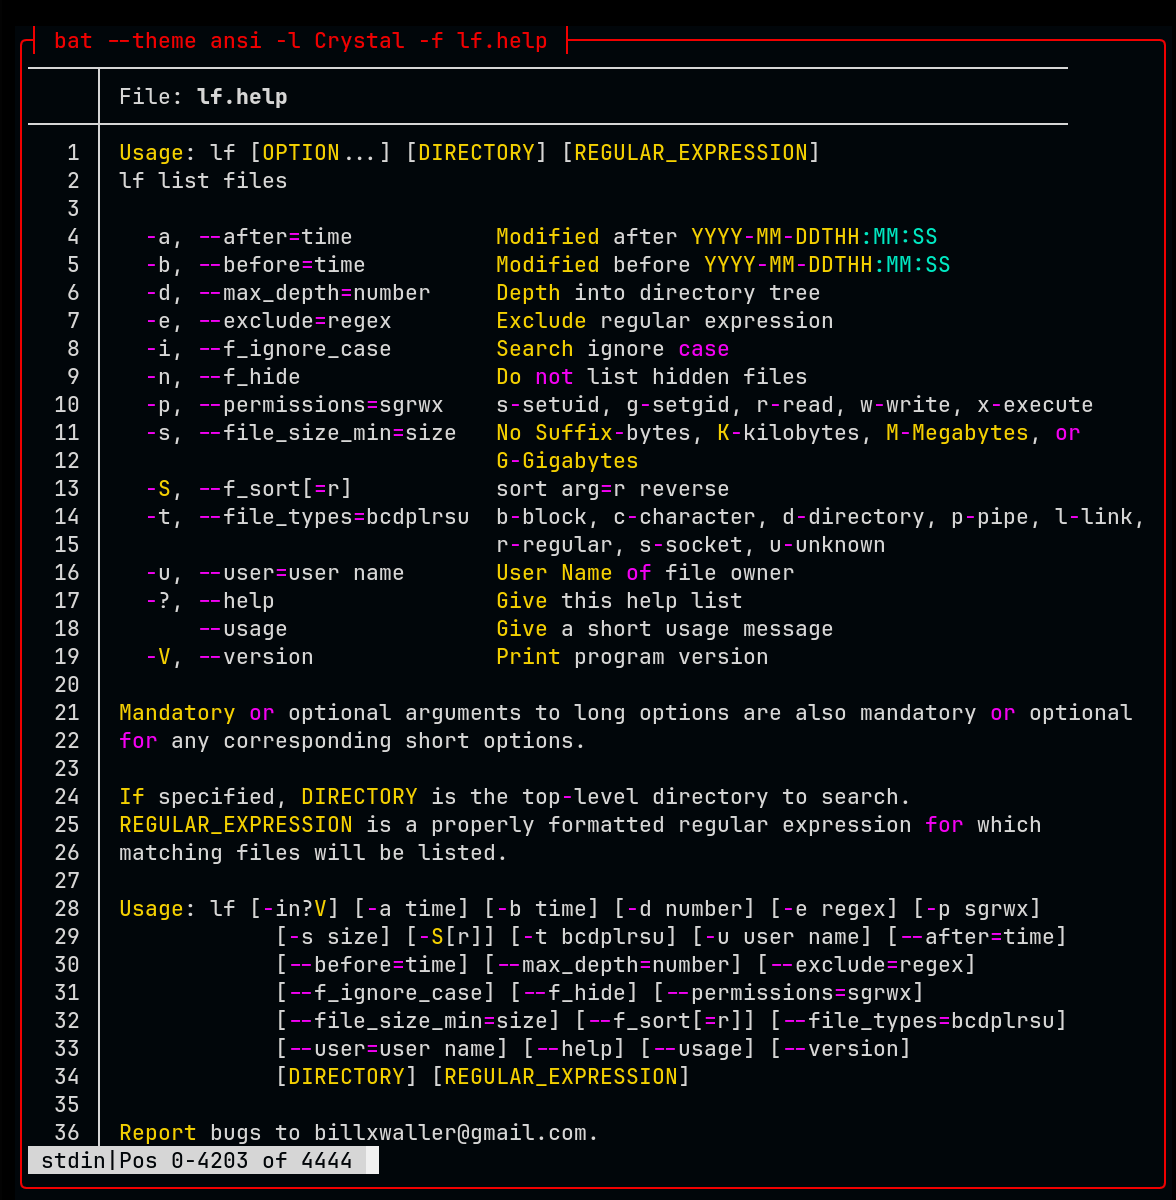
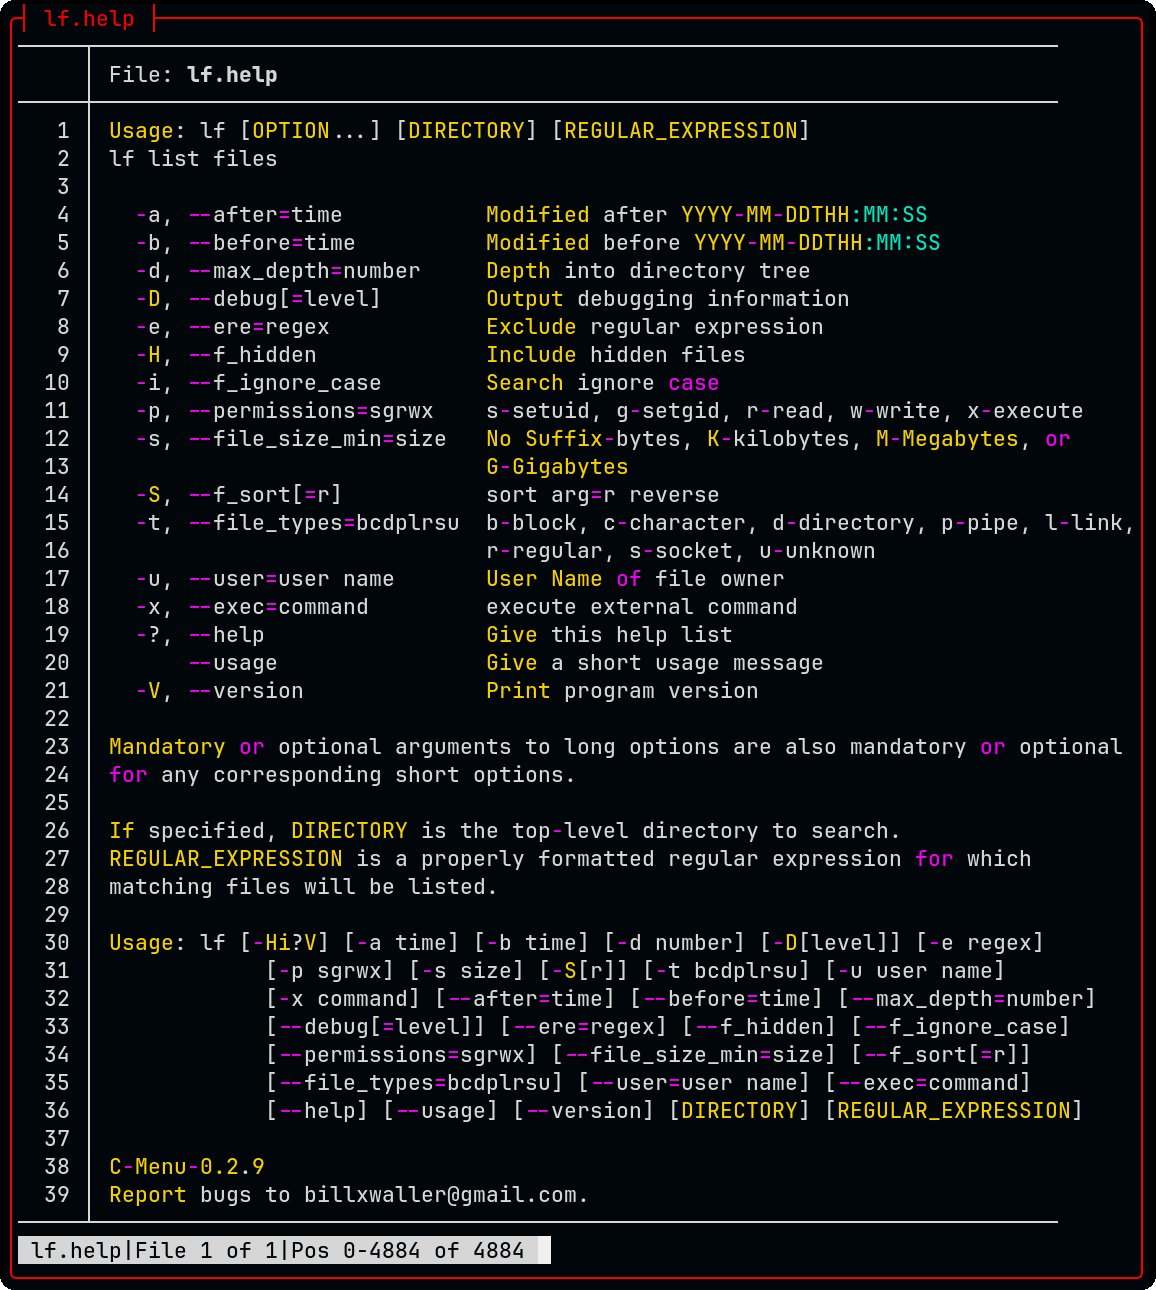
lf: Changed default to exclude hidden files, removed -n option to exclude hidden files, and added the -H option to include hidden files. Updated the help file and screenshot accordingly.

Changed region(s): [[0.0, 0.0, 1.0, 1.0], [0.9965, 0.0, 1.0, 0.0308]]

diff --git a/src/lf.c b/src/lf.c
@@ -46,7 +46,6 @@ static struct argp_option options[] = {
     {"max_depth", 'd', "number", 0, "Depth into directory tree", 0},
     {"ere", 'e', "regex", 0, "Exclude regular expression", 0},
     {"f_ignore_case", 'i', 0, 0, "Search ignore case", 0},
-    {"f_hide", 'n', 0, 0, "Do not list hidden files", 0},
     {"permissions", 'p', "sgrwx", 0,
      "s-setuid, g-setgid, r-read, w-write, x-execute", 0},
     {"file_size_min", 's', "size", 0,
@@ -59,6 +58,7 @@ static struct argp_option options[] = {
     {"exec", 'x', "command", 0, "execute external command", 0},
     {"debug", 'D', "level", OPTION_ARG_OPTIONAL, "Output debugging information",
      0},
+    {"f_hidden", 'H', 0, 0, "Include hidden files", 0},
     {"f_sort", 'S', "r", OPTION_ARG_OPTIONAL, "sort arg=r reverse", 0},
     {0}};
 
@@ -77,7 +77,7 @@ typedef struct {
     bool f_ignore_case;
     bool f_sort;
     bool f_reverse;
-    bool f_hide;
+    bool f_hidden;
     char *file_types_p;
     int reg_flags;
     char *args[2];
@@ -108,9 +108,9 @@ typedef struct Node {
 bool init_find(SearchFilters *);
 int scan_file(char *, SearchFilters *, struct dirent *);
 
-void enqueue(const char *, int);
-Node *dequeue();
-void *worker(void *);
+void enqueue_dir(const char *, int);
+Node *dequeue_dir();
+void *finder(void *);
 // void exec_external(SearchFilters *, char **);
 
 /** @brief Parse a single option.  */
@@ -158,12 +158,12 @@ static error_t parse_opt(int key, char *arg, struct argp_state *state) {
         strnz__cpy(f->ere, arg, MAXLEN - 1);
         f->flags |= LF_EXC_REGEX;
         break;
+    case 'H':
+        f->f_hidden = true;     // Include hidden files
+        f->flags &= ~(LF_HIDE); // Don't hide hidden files
+        break;
     case 'i':
         f->flags |= LF_ICASE;
-        break;
-    case 'n':
-        f->f_hide = true;
-        f->flags |= LF_HIDE;
         break;
     case 'p':
         for (i = 0; arg[i]; i++) {
@@ -280,20 +280,14 @@ int shutdown = 0;
 int main(int argc, char **argv) {
 
     SearchFilters *f = (SearchFilters *)calloc(1, sizeof(SearchFilters));
-    f->base_path[0] = '\0';
-    f->max_depth = 0;
-    f->re[0] = '\0';
-    f->ere[0] = '\0';
     f->f_ignore_case = false;
     f->f_sort = false;
     f->f_reverse = false;
-    f->file_types_p = 0;
+    f->f_hidden = false; // By default, hidden files are suppressed. Use -H to
+                         // include them.
+    f->flags |= LF_HIDE; // Hide hidden files
     f->args[0] = nullptr;
     f->args[1] = nullptr;
-    f->exec[0] = '\0';
-    f->after = 0;
-    f->before = 0;
-    f->file_size_min = 0;
     argp_parse(&argp, argc, argv, 0, 0, f);
     if (f->argc > 0) {
         if (is_directory(f->args[0]))
@@ -340,8 +334,8 @@ int main(int argc, char **argv) {
          * process will run the file finder and write its output to the pipe,
          * while the child process will read from the pipe and execute the sort
          * command. */
-        int eargc = 0;
         char *eargv[MAXARGS];
+        int eargc = 0;
         eargv[eargc++] = strdup("sort");
         if (f->f_reverse)
             eargv[eargc++] = strdup("-r");
@@ -351,12 +345,13 @@ int main(int argc, char **argv) {
         int fds[2];
         pipe(fds); // Create the pipes
         pid_t pid1 = fork();
-        if (pid1 == 0) {
+        if (pid1 == 0) {                // Child process
             close(fds[1]);              // Close child write pipe
             dup2(fds[0], STDIN_FILENO); // Clone child read pipe to STDIN_FILENO
             close(fds[0]);              // Close child read pipe after cloning
             execvp(eargv[0], eargv);    // Execute the external command
         }
+        // Parent process
         close(fds[0]);               // Close read end of pipe
         dup2(fds[1], STDOUT_FILENO); // Clone write pipe to STDOUT_FILENO
         close(fds[1]);               // Close duplicated write pipe
@@ -376,7 +371,7 @@ int main(int argc, char **argv) {
     exit(EXIT_SUCCESS);
 }
 /** @brief Initialize the file search based on the provided SearchFilters and
-   start worker threads.
+   start finder threads.
     @param f A pointer to a SearchFilters struct containing the options and
    flags for filtering.
     @return true if the search was initialized successfully, false if an error
@@ -384,15 +379,14 @@ int main(int argc, char **argv) {
     @details This function processes the flags and options specified in the
    SearchFilters struct to set up the search criteria. It compiles any regular
    expressions provided by the user and initializes the queue with the base
-   directory. It then creates a number of worker threads equal to the number of
+   directory. It then creates a number of finder threads equal to the number of
    CPU cores to perform the directory traversal and file scanning concurrently.
-   The function waits for all worker threads to complete before cleaning up
+   The function waits for all finder threads to complete before cleaning up
    resources and returning.
    */
 bool init_find(SearchFilters *f) {
     if (f->flags & LF_USER)
         f->user_id = f->flags >> 24 & 0xffff;
-    f->suppress_types = 0;
     f->include_types = f->flags >> 8 & 0xff;
     /** suppress file types that aren't included */
     if (f->include_types)
@@ -448,8 +442,8 @@ bool init_find(SearchFilters *f) {
                     (intmax_t)f->file_size_min);
         if (f->max_depth)
             fprintf(stderr, "Max depth: %d\n", f->max_depth);
-        if (f->f_hide)
-            fprintf(stderr, "Hidden files will be suppressed.\n");
+        if (f->f_hidden)
+            fprintf(stderr, "Include hidden files.\n");
         if (f->include_types) {
             fprintf(stderr, "Included file types:");
             if (f->include_types & FT_BLK)
@@ -473,11 +467,10 @@ bool init_find(SearchFilters *f) {
             fprintf(stderr, "\n");
         }
     }
-
-    enqueue(f->base_path, 0);
+    enqueue_dir(f->base_path, 0);
     pthread_t threads[thread_count];
     for (int i = 0; i < thread_count; i++)
-        pthread_create(&threads[i], NULL, worker, f);
+        pthread_create(&threads[i], NULL, finder, f);
     pthread_mutex_lock(&queue_mutex);
     while (!shutdown) {
         pthread_cond_wait(&cond_var, &queue_mutex);
@@ -485,6 +478,7 @@ bool init_find(SearchFilters *f) {
     pthread_mutex_unlock(&queue_mutex);
     for (int i = 0; i < thread_count; i++)
         pthread_join(threads[i], NULL);
+    // End Program
     if (f->flags & LF_REGEX)
         regfree(&f->compiled_re);
     if (f->flags & LF_EXC_REGEX)
@@ -494,16 +488,16 @@ bool init_find(SearchFilters *f) {
         return false;
     return true;
 }
-/** @brief Enqueue a directory path for processing by worker threads.
+/** @brief Enqueue a directory path for processing by finder threads.
     @param path The directory path to enqueue.
     @param depth The current depth in the directory tree for the given path.
     @details This function creates a new Node containing the specified directory
    path and depth, and adds it to the global queue. It uses a mutex to ensure
-   thread-safe access to the queue, and signals worker threads that new work is
+   thread-safe access to the queue, and signals finder threads that new work is
    available. The function also checks for shutdown conditions to prevent
    enqueuing new work when the program is exiting.
    */
-void enqueue(const char *path, int depth) {
+void enqueue_dir(const char *path, int depth) {
     Node *new_node = malloc(sizeof(Node));
     strnz__cpy(new_node->path, path, PATH_MAX - 1);
     new_node->depth = depth;
@@ -518,16 +512,16 @@ void enqueue(const char *path, int depth) {
     pthread_cond_signal(&cond_var);
     pthread_mutex_unlock(&queue_mutex);
 }
-/** @brief Dequeue a directory path for processing by worker threads.
+/** @brief Dequeue a directory path for processing by finder threads.
     @return A pointer to a Node containing the directory path and depth, or NULL
    if the queue is empty and shutdown has been initiated.
     @details This function removes and returns the next Node from the global
    queue. It uses a mutex to ensure thread-safe access to the queue, and waits
    on a condition variable if the queue is empty. The function also checks for
-   shutdown conditions to allow worker threads to exit gracefully when there is
+   shutdown conditions to allow finder threads to exit gracefully when there is
    no more work to process.
    */
-Node *dequeue() {
+Node *dequeue_dir() {
     pthread_mutex_lock(&queue_mutex);
     while (head == NULL && !shutdown) {
         // Exit condition: No work in queue AND no threads busy
@@ -561,12 +555,12 @@ Node *dequeue() {
    function uses atomic operations to track active tasks and condition variables
    to manage thread synchronization and shutdown when all work is complete.
    */
-void *worker(void *arg) {
+void *finder(void *arg) {
     SearchFilters *f = (SearchFilters *)arg;
     // regmatch_t pmatch;
 
     while (1) {
-        Node *current = dequeue();
+        Node *current = dequeue_dir();
         if (!current)
             break;
 
@@ -587,7 +581,7 @@ void *worker(void *arg) {
                     if (!((f->flags & LF_HIDE) && (entry->d_name[0] == '.'))) {
                         if (f->max_depth == 0 ||
                             current->depth + 1 < f->max_depth) {
-                            enqueue(full_path, current->depth + 1);
+                            enqueue_dir(full_path, current->depth + 1);
                         }
                     }
                 } else {
@@ -618,7 +612,7 @@ void *worker(void *arg) {
    criteria, its path is printed to standard output. If any errors occur during
    processing (e.g., regex compilation failure), an error message is printed to
    standard error and the function returns false.
-    @note This function is called by worker threads for each file encountered
+    @note This function is called by finder threads for each file encountered
    during the directory traversal. It is designed to be thread-safe and
    efficient, minimizing redundant system calls. For example, it only calls
    stat() when necessary for filters that require file metadata, and it caches

diff --git a/README.md b/README.md
@@ -161,11 +161,14 @@ The screenshot above is an example of how you might use the date-time options
 of lf to list files between two date-times (after and before) and the sample
 output. lf is definitely intuitive and very easy to use.
 
-With C-Menu, you can use lf, find, or fd depending on your specific needs and preferences. If you need a powerful and flexible file finder with a very light footprint, lf is a great choice. For a more traditional file finder with a wide range of options and compatibility with older systems, find may be a better choice for your target platform. If you want the fastest possible file finder and don't mind its relatively large footprint, fd is the way to go. fd is written in Rust, which is great for any number of reasons, but applications written in Rust require significantly more disk space than applications written in C. fd's executable alone is 3.8 Mb on my system, it has more than a few dependencies, and portability can be an issue. lf, on the other hand, is written in C, has a 20 Kb executable, and minimal dependencies.
+With C-Menu, you can use lf, find, or fd depending on your specific needs and preferences. If you need a powerful and flexible file finder with a very small footprint, lf is a great choice. For a more traditional file finder with a wider range of options and compatibility with older systems, find may be a better choice for your target platform. If you want the fastest possible file finder ~~and don't mind its relatively large footprint, fd~~ lf is the way to go.
 
-Currently, lf is faster than find, but not nearly as fast as fd. The planned multi-threading optimizations for lf will make it much faster, but even in its current state, lf is a great tool for finding files with regular expressions and date-time criteria. lf is designed to be simple and easy to use, with a focus on portability, performance, and usability.
+fd is written in Rust, which is great for any number of reasons, but applications written in Rust require significantly more disk space than applications written in C. fd's executable alone is 3.8 Mb on my system, it has more than a few dependencies, and portability can be an issue. Nevertheless, fd is a very fast file finder, and it has a lot of great features.
 
-**_NEW_** Erase the above two paragraphs. The latest updates have incorporated concurrent directory processing resulting in significant performance gains for lf. I have not had time to dig in and find out why fd only listed 291969 files, but it is likely that fd is not following symbolic links, which would account for the difference in file counts. The performance of fd is also significantly slower than lf, which is surprising given that fd is written in Rust and is generally considered to be a fast file searching tool. It is possible that fd's performance could be improved with some optimizations, but as it stands, lf appears to be the superior choice for file searching tasks.
+Currently, lf is faster than find and fd, ~~but not nearly as fast as fd~~. The ~~planned~~ recently completed multi-threading optimizations for lf ~~will make it~~ have made it much faster, ~~but even in its current state,~~ so lf is a superior tool for finding files with regular expressions and date-time criteria. lf is designed to be simple and easy to use, with a focus on portability, performance, and usability.
+
+**_NEW_** Erase the above two paragraphs. The latest updates have incorporated concurrent directory processing resulting in significant performance gains for lf. I have not had time to dig in and find out why fd only listed 291969 files, but it is likely that fd is not following symbolic links, which would account for the difference in file counts. Regardless of the reason, picking up fewer files may falsely indicate better peormance. However, fd is still significantly slower than lf, which is surprising given that fd is written in Rust and known to be a highly performant finder. Both
+There is certainly nothing wrong with find or fd, but lf appears to be the fastest and lightest choice.
 
 time find . -type f | wc
 
@@ -179,7 +182,11 @@ time fd . -H -t f | wc
 | lf      | 0m0.214s | 0m0.036s | 0m0.214s | 307440      |
 | fd      | 0m0.221s | 0m0.319s | 0m0.821s | 291969      |
 
-But, even if lf wasn't faster than find, it would still be a compelling alternative due to its simplicity and ease of use. With fewer options and a more intuitive syntax, lf can be easier to learn and use for the most common file searching tasks.
+Even without its speed advantage, lf would still be a compelling alternative due to its simplicity and ease of use. With fewer options and a more intuitive syntax, lf can be easier to learn and use for the most common file searching tasks.
+
+Note: The results above demonstrate the performance of lf just after the first pass of refactoring to add concurrent directory processing. There is no doubt that subsequent code iterations will continue to achieve even better performance.
+
+It is unlikely that a finder written in any language other than modern C could deliver the portability, small footprint, and blazing speed of lf. If you need a powerful and efficient file finder that can be easily integrated into your C-Menu applications, lf is an excellent choice.
 
 ---
 